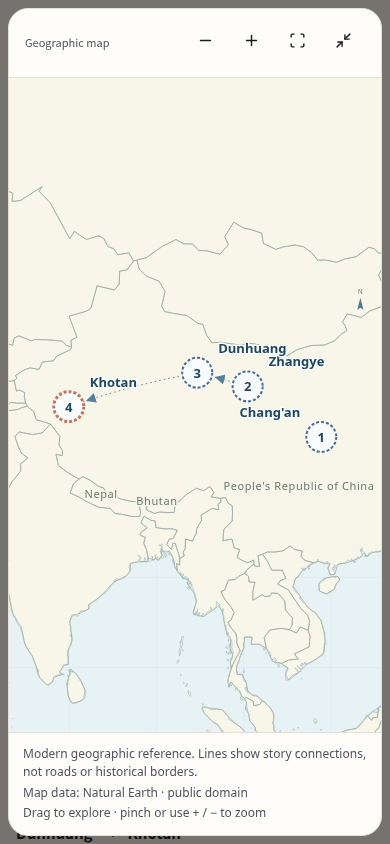
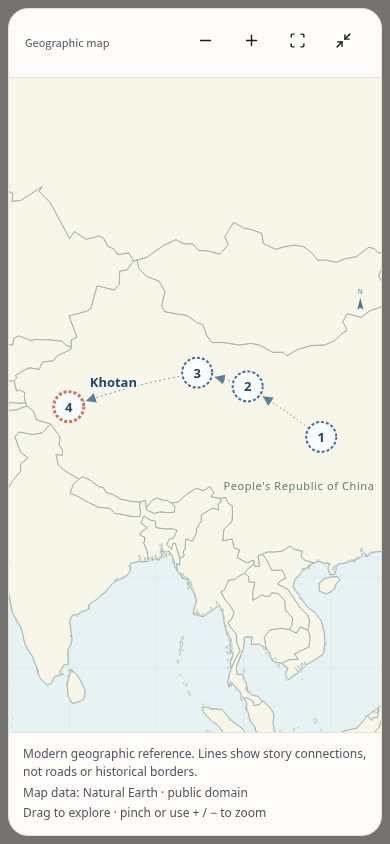
Correct saved historical maps and prepare internal build 38

diff --git a/src/components/guideVisualCopy.ts b/src/components/guideVisualCopy.ts
@@ -1,6 +1,6 @@
 export const guideVisualCopy = {
-  en: { resetLocation: 'Reset location suggestion', mappedPlaces: "Located places", mappedRoutes: "Mapped connections", unmapped: "Not located on this map", noMappedPlaces: "These places have no confirmed geographic match yet. Use the Story map to see their connections, or choose a location below.", historicalApproximation: "Approximate historical location, shown against modern geography. This pin does not identify an exact ancient building, boundary or port.", locationSource: "Location source", graph: 'Graph', tree: 'Tree layout', list: 'Details', all: 'Show all', search: 'Find a person or place', zoomIn: 'Zoom in', zoomOut: 'Zoom out', fit: 'Fit view', expand: 'Expand', close: 'Close', drag: 'Drag to explore · pinch or use + / − to zoom', connections: 'connections', chronological: 'By date', narrative: 'In the text', unknown: 'Without a confirmed date', dateNote: 'Only dates stated in the quoted passages are placed on the calendar.', map: 'Geographic map', story: 'Story map', locate: 'Find a location', noLocation: 'No matching location. Keep fictional or uncertain places on the story map.', candidates: 'Suggested locations · select a place to confirm or change it', confirm: 'Use this location', remove: 'Remove pin', searchPlaces: 'Search city or town', mapNote: 'Modern geographic reference. Lines show story connections, not roads or historical borders.', localPins: 'Location choices are saved on this device.', naturalEarth: 'Map data: Natural Earth · public domain', viewPlace: 'Choose a place', chapters: 'Chapters', overview: 'Book excerpts', partial: 'Partial source coverage', fullNames: 'Select a node or line to see its passages.', dates: 'Dated events', summary: 'Overview', illustration: 'Illustrated map', illustratedNote: 'An illustration of the story; geography and facts come from the linked passages.' },
-  'zh-Hans': { resetLocation: '恢复建议位置', mappedPlaces: "已定位地点", mappedRoutes: "已绘制连线", unmapped: "尚未定位", noMappedPlaces: "这些地点尚无可信的地理位置。可在故事地图中查看它们的关系，或在下方选择位置。", historicalApproximation: "历史地点的大致位置，以现代地理为参考。标记不代表古代建筑、边界或港口的精确位置。", locationSource: "位置依据", graph: '关系图', tree: '树状布局', list: '详情', all: '显示全部', search: '查找人物或地点', zoomIn: '放大', zoomOut: '缩小', fit: '适应视图', expand: '展开', close: '关闭', drag: '拖动查看 · 双指或 + / − 缩放', connections: '条关系', chronological: '按日期', narrative: '原文顺序', unknown: '未确认日期', dateNote: '仅将引文中明确的日期放在时间轴上。', map: '地理地图', story: '故事地图', locate: '查找位置', noLocation: '未找到匹配位置。虚构或不确定的地点可在故事地图中查看。', candidates: '建议位置 · 选择地点以确认或更改', confirm: '使用此位置', remove: '移除标记', searchPlaces: '搜索城市或城镇', mapNote: '现代地理参考。连线表示故事中的联系，不代表道路或历史边界。', localPins: '位置选择保存在此设备上。', naturalEarth: '地图数据：Natural Earth · 公共领域', viewPlace: '选择地点', chapters: '章节', overview: '全书选段', partial: '仅覆盖部分原文', fullNames: '选择节点或连线查看原文依据。', dates: '已注明日期的事件', summary: '概览', illustration: '插画地图', illustratedNote: '故事插画；地理位置和事实请参照所附原文。' },
-  'zh-Hant': { resetLocation: '恢復建議位置', mappedPlaces: "已定位地點", mappedRoutes: "已繪製連線", unmapped: "尚未定位", noMappedPlaces: "這些地點尚無可信的地理位置。可在故事地圖中查看它們的關係，或在下方選擇位置。", historicalApproximation: "歷史地點的大致位置，以現代地理為參考。標記不代表古代建築、邊界或港口的精確位置。", locationSource: "位置依據", graph: '關係圖', tree: '樹狀佈局', list: '詳情', all: '顯示全部', search: '尋找人物或地點', zoomIn: '放大', zoomOut: '縮小', fit: '適應視圖', expand: '展開', close: '關閉', drag: '拖動查看 · 雙指或 + / − 縮放', connections: '條關係', chronological: '按日期', narrative: '原文順序', unknown: '未確認日期', dateNote: '僅將引文中明確的日期放在時間軸上。', map: '地理地圖', story: '故事地圖', locate: '尋找位置', noLocation: '未找到符合的位置。虛構或不確定的地點可在故事地圖中查看。', candidates: '建議位置 · 選擇地點以確認或更改', confirm: '使用此位置', remove: '移除標記', searchPlaces: '搜尋城市或城鎮', mapNote: '現代地理參考。連線表示故事中的聯繫，不代表道路或歷史邊界。', localPins: '位置選擇儲存在此裝置上。', naturalEarth: '地圖資料：Natural Earth · 公共領域', viewPlace: '選擇地點', chapters: '章節', overview: '全書選段', partial: '僅涵蓋部分原文', fullNames: '選擇節點或連線查看原文依據。', dates: '已註明日期的事件', summary: '概覽', illustration: '插畫地圖', illustratedNote: '故事插畫；地理位置和事實請參照所附原文。' },
-  ja: { resetLocation: '位置の候補に戻す', mappedPlaces: "位置が分かる場所", mappedRoutes: "表示中のつながり", unmapped: "位置未確認", noMappedPlaces: "これらの場所は位置がまだ確認できません。物語の地図でつながりを見るか、下で位置を選んでください。", historicalApproximation: "現代の地理上に示した歴史的な場所の概略位置です。古代の建物・境界・港の正確な位置ではありません。", locationSource: "位置の出典", graph: '関係図', tree: 'ツリー', list: '詳細', all: 'すべて表示', search: '人物や場所を探す', zoomIn: '拡大', zoomOut: '縮小', fit: '全体を表示', expand: '広げる', close: '閉じる', drag: 'ドラッグで移動 · ピンチまたは + / − で拡大縮小', connections: '件のつながり', chronological: '日付順', narrative: '本文の順番', unknown: '日付が不明な出来事', dateNote: '引用に明記された日付だけを時間軸に配置します。', map: '地理地図', story: '物語の地図', locate: '位置を探す', noLocation: '一致する場所がありません。架空・不明の場所は物語の地図で確認できます。', candidates: '候補の位置 · 場所を選んで確認・変更できます', confirm: 'この位置を使う', remove: 'ピンを削除', searchPlaces: '都市や町を検索', mapNote: '現代の地理を参考に表示。線は物語のつながりで、道路や歴史的境界ではありません。', localPins: '位置の選択はこの端末に保存されます。', naturalEarth: '地図データ：Natural Earth · パブリックドメイン', viewPlace: '場所を選ぶ', chapters: '章', overview: '本全体からの抜粋', partial: '本文の一部のみ', fullNames: '人物や線を選ぶと根拠の一節が表示されます。', dates: '日付のある出来事', summary: '概要', illustration: 'イラスト地図', illustratedNote: '物語のイラストです。地理や事実は原文で確認してください。' },
+  en: { routeGap: "Route sections with unlocated stops", routeGapNote: "Dotted links summarize existing journey connections through the named unlocated stops. They are not direct journeys or traced paths. Select a connection for its evidence.", regionNote: "Shaded region on a modern map. The square labels the region, not a city, port or exact arrival point.", resetLocation: 'Reset location suggestion', mappedPlaces: "Located places", mappedRoutes: "Mapped connections", unmapped: "Not located on this map", noMappedPlaces: "These places have no confirmed geographic match yet. Use the Story map to see their connections, or choose a location below.", historicalApproximation: "Approximate historical location, shown against modern geography. This pin does not identify an exact ancient building, boundary or port.", locationSource: "Location source", graph: 'Graph', tree: 'Tree layout', list: 'Details', all: 'Show all', search: 'Find a person or place', zoomIn: 'Zoom in', zoomOut: 'Zoom out', fit: 'Fit view', expand: 'Expand', close: 'Close', drag: 'Drag to explore · pinch or use + / − to zoom', connections: 'connections', chronological: 'By date', narrative: 'In the text', unknown: 'Without a confirmed date', dateNote: 'Only dates stated in the quoted passages are placed on the calendar.', map: 'Geographic map', story: 'Story map', locate: 'Find a location', noLocation: 'No matching location. Keep fictional or uncertain places on the story map.', candidates: 'Suggested locations · select a place to confirm or change it', confirm: 'Use this location', remove: 'Remove pin', searchPlaces: 'Search city or town', mapNote: 'Modern geographic reference. Lines show story connections, not roads or historical borders.', localPins: 'Location choices are saved on this device.', naturalEarth: 'Map data: Natural Earth · public domain', viewPlace: 'Choose a place', chapters: 'Chapters', overview: 'Book excerpts', partial: 'Partial source coverage', fullNames: 'Select a node or line to see its passages.', dates: 'Dated events', summary: 'Overview', illustration: 'Illustrated map', illustratedNote: 'An illustration of the story; geography and facts come from the linked passages.' },
+  'zh-Hans': { routeGap: "含未定位途经地的路段", routeGapNote: "点线概括已有行程中经过未定位地点的路段，不表示直达或真实路径。点击下方连线说明查看依据。", regionNote: "阴影表示现代地图上的区域。方形标记是区域标签，不是城市、港口或精确登陆点。", resetLocation: '恢复建议位置', mappedPlaces: "已定位地点", mappedRoutes: "已绘制连线", unmapped: "尚未定位", noMappedPlaces: "这些地点尚无可信的地理位置。可在故事地图中查看它们的关系，或在下方选择位置。", historicalApproximation: "历史地点的大致位置，以现代地理为参考。标记不代表古代建筑、边界或港口的精确位置。", locationSource: "位置依据", graph: '关系图', tree: '树状布局', list: '详情', all: '显示全部', search: '查找人物或地点', zoomIn: '放大', zoomOut: '缩小', fit: '适应视图', expand: '展开', close: '关闭', drag: '拖动查看 · 双指或 + / − 缩放', connections: '条关系', chronological: '按日期', narrative: '原文顺序', unknown: '未确认日期', dateNote: '仅将引文中明确的日期放在时间轴上。', map: '地理地图', story: '故事地图', locate: '查找位置', noLocation: '未找到匹配位置。虚构或不确定的地点可在故事地图中查看。', candidates: '建议位置 · 选择地点以确认或更改', confirm: '使用此位置', remove: '移除标记', searchPlaces: '搜索城市或城镇', mapNote: '现代地理参考。连线表示故事中的联系，不代表道路或历史边界。', localPins: '位置选择保存在此设备上。', naturalEarth: '地图数据：Natural Earth · 公共领域', viewPlace: '选择地点', chapters: '章节', overview: '全书选段', partial: '仅覆盖部分原文', fullNames: '选择节点或连线查看原文依据。', dates: '已注明日期的事件', summary: '概览', illustration: '插画地图', illustratedNote: '故事插画；地理位置和事实请参照所附原文。' },
+  'zh-Hant': { routeGap: "含未定位途經地的路段", routeGapNote: "點線概括已有行程中經過未定位地點的路段，不表示直達或真實路徑。點擊下方連線說明查看依據。", regionNote: "陰影表示現代地圖上的區域。方形標記是區域標籤，不是城市、港口或精確登陸點。", resetLocation: '恢復建議位置', mappedPlaces: "已定位地點", mappedRoutes: "已繪製連線", unmapped: "尚未定位", noMappedPlaces: "這些地點尚無可信的地理位置。可在故事地圖中查看它們的關係，或在下方選擇位置。", historicalApproximation: "歷史地點的大致位置，以現代地理為參考。標記不代表古代建築、邊界或港口的精確位置。", locationSource: "位置依據", graph: '關係圖', tree: '樹狀佈局', list: '詳情', all: '顯示全部', search: '尋找人物或地點', zoomIn: '放大', zoomOut: '縮小', fit: '適應視圖', expand: '展開', close: '關閉', drag: '拖動查看 · 雙指或 + / − 縮放', connections: '條關係', chronological: '按日期', narrative: '原文順序', unknown: '未確認日期', dateNote: '僅將引文中明確的日期放在時間軸上。', map: '地理地圖', story: '故事地圖', locate: '尋找位置', noLocation: '未找到符合的位置。虛構或不確定的地點可在故事地圖中查看。', candidates: '建議位置 · 選擇地點以確認或更改', confirm: '使用此位置', remove: '移除標記', searchPlaces: '搜尋城市或城鎮', mapNote: '現代地理參考。連線表示故事中的聯繫，不代表道路或歷史邊界。', localPins: '位置選擇儲存在此裝置上。', naturalEarth: '地圖資料：Natural Earth · 公共領域', viewPlace: '選擇地點', chapters: '章節', overview: '全書選段', partial: '僅涵蓋部分原文', fullNames: '選擇節點或連線查看原文依據。', dates: '已註明日期的事件', summary: '概覽', illustration: '插畫地圖', illustratedNote: '故事插畫；地理位置和事實請參照所附原文。' },
+  ja: { routeGap: "位置未確認の経由地を含む区間", routeGapNote: "点線は既存の旅程にある経由地をまとめて示します。直行や実際の道筋を示す線ではありません。区間を選ぶと根拠を確認できます。", regionNote: "塗りつぶしは現代地図上の地域です。四角は地域のラベルで、都市・港・正確な到着地点ではありません。", resetLocation: '位置の候補に戻す', mappedPlaces: "位置が分かる場所", mappedRoutes: "表示中のつながり", unmapped: "位置未確認", noMappedPlaces: "これらの場所は位置がまだ確認できません。物語の地図でつながりを見るか、下で位置を選んでください。", historicalApproximation: "現代の地理上に示した歴史的な場所の概略位置です。古代の建物・境界・港の正確な位置ではありません。", locationSource: "位置の出典", graph: '関係図', tree: 'ツリー', list: '詳細', all: 'すべて表示', search: '人物や場所を探す', zoomIn: '拡大', zoomOut: '縮小', fit: '全体を表示', expand: '広げる', close: '閉じる', drag: 'ドラッグで移動 · ピンチまたは + / − で拡大縮小', connections: '件のつながり', chronological: '日付順', narrative: '本文の順番', unknown: '日付が不明な出来事', dateNote: '引用に明記された日付だけを時間軸に配置します。', map: '地理地図', story: '物語の地図', locate: '位置を探す', noLocation: '一致する場所がありません。架空・不明の場所は物語の地図で確認できます。', candidates: '候補の位置 · 場所を選んで確認・変更できます', confirm: 'この位置を使う', remove: 'ピンを削除', searchPlaces: '都市や町を検索', mapNote: '現代の地理を参考に表示。線は物語のつながりで、道路や歴史的境界ではありません。', localPins: '位置の選択はこの端末に保存されます。', naturalEarth: '地図データ：Natural Earth · パブリックドメイン', viewPlace: '場所を選ぶ', chapters: '章', overview: '本全体からの抜粋', partial: '本文の一部のみ', fullNames: '人物や線を選ぶと根拠の一節が表示されます。', dates: '日付のある出来事', summary: '概要', illustration: 'イラスト地図', illustratedNote: '物語のイラストです。地理や事実は原文で確認してください。' },
 }

diff --git a/src/components/GuideMap.tsx b/src/components/GuideMap.tsx
@@ -1,9 +1,10 @@
 import { useId, useState } from 'react'
-import { geoGraticule10, type GeoPermissibleObjects } from 'd3-geo'
+import { geoContains, geoGraticule10, type GeoPermissibleObjects } from 'd3-geo'
 import land from '../data/atlas-land.json'
 import countries from '../data/atlas-countries.json'
 import { atlas, historicalPlaces, readingPlaceChoices, suggestedReadingPlace } from '../lib/guideAtlas'
-import { guideMapGeometry } from '../lib/guideMapGeometry'
+import { guideMapGeometry, mapMarkerPositions } from '../lib/guideMapGeometry'
+import { mapRouteGaps } from '../lib/guideMapRoutes'
 import type { GuideConnection, GuideEntity } from '../lib/bookCompanion'
 import type { UILanguage } from '../i18n'
 import { GuideCanvas } from './GuideCanvas'
@@ -22,10 +23,14 @@ export default function GuideMap({ nodes, edges, guideKey, ui, onSelect, onEdge,
     return place ? [{ node, place, confirmed: chosen }] : []
   })
   const signature = JSON.stringify(pins.map(p => [p.node.id, p.place.id, p.place.longitude, p.place.latitude]))
-  const geometry = guideMapGeometry(pins.map(p => p.place))
+  const geometry = guideMapGeometry(pins.flatMap(p => [p.place, ...(p.place.bounds || []).map(([longitude, latitude]) => ({ longitude, latitude }))]))
   const results = readingPlaceChoices(search || nodes.find(n => n.id === active)?.name || '', bookId)
   const mappedRoutes = edges.filter(edge => pins.some(p => p.node.id === edge.from) && pins.some(p => p.node.id === edge.to)).length
   const missing = nodes.filter(node => !pins.some(p => p.node.id === node.id))
+  const labeledCountries = countries.features.filter(country => pins.some(pin => pin.place.country === country.properties.NAME_EN || geoContains(country as GeoPermissibleObjects, [pin.place.longitude, pin.place.latitude])))
+  const gaps = mapRouteGaps(edges, new Set(pins.map(p => p.node.id)))
+  const [selectedGap, setSelectedGap] = useState<number | null>(null)
+  const gapLabel = (gap: typeof gaps[number]) => [gap.from, ...gap.via, gap.to].map(id => nodes.find(n => n.id === id)?.name || id).join(' → ')
   const save = (id: string | null | undefined) => {
     const next = { ...choices }
     if (id === undefined) delete next[active]
@@ -42,18 +47,25 @@ export default function GuideMap({ nodes, edges, guideKey, ui, onSelect, onEdge,
     <div className="atlas-coverage" role="status"><strong>{t.mappedPlaces}: {pins.length}/{nodes.length}</strong><span>{t.mappedRoutes}: {mappedRoutes}/{edges.length}</span></div>
     {!!missing.length && <p className="atlas-unresolved">{t.unmapped}: {missing.map(p => p.name).join(' · ')}</p>}
     {pins.length > 0 ? <GuideCanvas key={signature} stateKey={`${guideKey}:map-v2:${signature}`} width={720} height={460} label={t.map} ui={ui} footer={<><p>{t.mapNote}</p><p>{t.naturalEarth}</p></>}>
-      {scale => <>
+      {scale => { const markerPositions = mapMarkerPositions(pins.map(p => geometry.projection([p.place.longitude, p.place.latitude])!), scale); return <>
       <defs><marker id={arrow} viewBox="0 0 10 10" refX="28" refY="5" markerUnits="userSpaceOnUse" markerWidth={10 / scale} markerHeight={10 / scale} orient="auto-start-reverse"><path d="M0 0L10 5L0 10Z" className="atlas-arrow" /></marker></defs>
       <rect x="-20000" y="-20000" width="40000" height="40000" className="atlas-ocean" />
       <path d={geometry.path(geoGraticule10()) || ''} className="atlas-grid" />
       <path d={geometry.path(land as GeoPermissibleObjects) || ''} className="atlas-land" />
       <path d={geometry.path(countries as GeoPermissibleObjects) || ''} className="atlas-borders" />
-      {countries.features.map((country, i) => {
+      {pins.filter(p => p.place.area).map(pin => <path key={pin.node.id} d={geometry.path(pin.place.area!) || ''} className="atlas-region" />)}
+      {labeledCountries.map((country, i) => {
         const p = country.properties, point = geometry.projection([p.LABEL_X, p.LABEL_Y])
         if (!point || point[0] < 40 || point[0] > 680 || point[1] < 35 || point[1] > 425) return null
         const label = ui === 'ja' ? p.NAME_JA : ui.startsWith('zh') ? p.NAME_ZH : p.NAME_EN
         const close = pins.some(pin => { const q = geometry.projection([pin.place.longitude, pin.place.latitude])!; return Math.abs(q[0] - point[0]) * scale < 55 && Math.abs(q[1] - point[1]) * scale < 30 })
         return <text key={i} transform={`translate(${point[0]},${point[1]}) scale(${1 / scale})`} y={close ? 34 : 0} className="atlas-country" textAnchor="middle">{label}</text>
+      })}
+      {gaps.map((gap, i) => {
+        const a = pins.find(p => p.node.id === gap.from)!, b = pins.find(p => p.node.id === gap.to)!
+        const d = geometry.path({ type: 'LineString', coordinates: [[a.place.longitude, a.place.latitude], [b.place.longitude, b.place.latitude]] }) || ''
+        const label = `${t.routeGap}: ${gapLabel(gap)}`
+        return <g key={`gap-${i}`} role="button" tabIndex={0} aria-label={label} className={`atlas-gap-control atlas-route-control${selectedGap === i ? ' selected' : ''}`} onClick={() => setSelectedGap(i)} onKeyDown={e => { if (e.key === 'Enter' || e.key === ' ') { e.preventDefault(); setSelectedGap(i) } }}><title>{label}</title><path d={d} className="atlas-route-hit" /><path d={d} className="atlas-route atlas-route-gap" markerEnd={`url(#${arrow})`} /></g>
       })}
       {edges.map((edge, i) => {
         const a = pins.find(p => p.node.id === edge.from), b = pins.find(p => p.node.id === edge.to)
@@ -67,21 +79,23 @@ export default function GuideMap({ nodes, edges, guideKey, ui, onSelect, onEdge,
       {pins.map((pin, i) => {
         const point = geometry.projection([pin.place.longitude, pin.place.latitude])
         if (!point) return null
+        const marker = markerPositions[i]
         const choose = () => { setActive(pin.node.id); setSearch(''); onSelect(pin.node.id) }
-        return <g key={pin.node.id} transform={`translate(${point[0]},${point[1]}) scale(${1 / scale})`} className={`atlas-pin${pin.place.approximate ? ' approximate' : ''}${pin.confirmed ? ' confirmed' : ''}${active === pin.node.id ? ' selected' : ''}`} role="button" tabIndex={0} aria-label={`${pin.node.name} · ${pin.place.name}, ${pin.place.country}`} onClick={choose} onKeyDown={e => { if (e.key === 'Enter' || e.key === ' ') { e.preventDefault(); choose() } }}>
-          <title>{pin.node.name} · {pin.place.name}, {pin.place.country}</title><circle r="15" /><text y="5" textAnchor="middle">{i + 1}</text>
-          {(active === pin.node.id || pins.length <= 6) && <text className="atlas-place-label" x={point[0] > 480 ? -21 : 21} y="-20" textAnchor={point[0] > 480 ? 'end' : 'start'}>{labelLines(pin.node.name, 20).map((line, i) => <tspan key={i} x={point[0] > 480 ? -21 : 21} dy={i ? 16 : 0}>{line}</tspan>)}</text>}
-        </g>
+        return <g key={pin.node.id}><path className="atlas-marker-leader" d={`M${point[0]},${point[1]}L${marker[0]},${marker[1]}`} /><g transform={`translate(${marker[0]},${marker[1]}) scale(${1 / scale})`} className={`atlas-pin${pin.place.approximate ? ' approximate' : ''}${pin.confirmed ? ' confirmed' : ''}${active === pin.node.id ? ' selected' : ''}`} role="button" tabIndex={0} aria-label={`${pin.node.name} · ${pin.place.name}, ${pin.place.country}`} onClick={choose} onKeyDown={e => { if (e.key === 'Enter' || e.key === ' ') { e.preventDefault(); choose() } }}>
+          <title>{pin.node.name} · {pin.place.name}, {pin.place.country}</title>{pin.place.area ? <rect x="-15" y="-15" width="30" height="30" rx="5" /> : <circle r="15" />}<text y="5" textAnchor="middle">{i + 1}</text>
+          {active === pin.node.id && <text className="atlas-place-label" x={point[0] > 480 ? -21 : 21} y="-20" textAnchor={point[0] > 480 ? 'end' : 'start'}>{labelLines(pin.node.name, 10).map((line, i) => <tspan key={i} x={point[0] > 480 ? -21 : 21} dy={i ? 16 : 0}>{line}</tspan>)}</text>}
+        </g></g>
       })}
       <g className="atlas-compass" transform="translate(680,40)"><path d="M0 -17L-6 6L0 2L6 6Z" /><text y="-24" textAnchor="middle">N</text></g>
-      </>}
+      </> }}
     </GuideCanvas> : <p className="guide-empty atlas-empty">{t.noMappedPlaces}</p>}
+    {!!gaps.length && <details className="atlas-route-gaps" open={selectedGap !== null}><summary>{t.routeGap} · {gaps.length}</summary><p className="guide-caption">{t.routeGapNote}</p>{gaps.map((gap, i) => <div key={i} className={selectedGap === i ? 'selected' : ''}><strong>{gapLabel(gap)}</strong><div>{gap.edges.map(index => <button type="button" key={index} onClick={() => onEdge(index)}>{edges[index].label}</button>)}</div></div>)}</details>}
     <p className="guide-caption">{t.candidates}</p>
     <div className="guide-name-index">{nodes.map(node => <button type="button" key={node.id} aria-pressed={active === node.id} onClick={() => { setActive(node.id); setSearch(''); onSelect(node.id) }}>{pins.some(p => p.node.id === node.id) && <span className="atlas-index-number">{pins.findIndex(p => p.node.id === node.id) + 1}</span>}<bdi>{node.name}</bdi></button>)}</div>
     {active && <details className="guide-locate" key={active} open={!selectedPin}>
       <summary>{t.locate} · <bdi>{nodes.find(n => n.id === active)?.name}</bdi></summary>
       {selectedPin && <><p>{selectedPin.place.name} · {selectedPin.place.region} · {selectedPin.place.country}</p>
-        {selectedPin.place.approximate && <p className="guide-caption">{t.historicalApproximation}</p>}
+        {selectedPin.place.approximate && <p className="guide-caption">{selectedPin.place.area ? t.regionNote : t.historicalApproximation}</p>}
         {!!selectedPin.place.sources?.length && <div className="atlas-sources">{selectedPin.place.sources.map((url, i) => <a key={url} href={url} target="_blank" rel="noreferrer">{t.locationSource} {i + 1}</a>)}</div>}</>}
       <input className="guide-search" value={search} onChange={e => setSearch(e.target.value)} placeholder={t.searchPlaces} aria-label={t.searchPlaces} />
       <div className="guide-location-results">{results.map(place => <button type="button" key={place.id} aria-label={`${t.confirm}: ${place.name}, ${place.country}`} onClick={() => save(place.id)}><strong>{place.name}</strong><span>{place.region} · {place.country}</span></button>)}</div>

diff --git a/src/lib/guideAtlas.ts b/src/lib/guideAtlas.ts
@@ -1,7 +1,9 @@
 import cities from '../data/atlas-places.json'
 import historical from '../../server/agent/reading-locations.json'
+import countries from '../data/atlas-countries.json'
+import { geoBounds, type GeoPermissibleObjects } from 'd3-geo'
 
-export interface AtlasPlace { id: string; name: string; country: string; region: string; longitude: number; latitude: number; names: string[]; approximate?: boolean; sources?: string[]; atlasId?: string }
+export interface AtlasPlace { id: string; name: string; country: string; region: string; longitude: number; latitude: number; names: string[]; approximate?: boolean; sources?: string[]; atlasId?: string; area?: GeoPermissibleObjects; bounds?: number[][] }
 const normalize = (value: string) => value.normalize('NFKD').replace(/\p{M}/gu, '').toLocaleLowerCase().replace(/[’'‘ʽʼ\s-]/gu, '').trim()
 export const atlas: AtlasPlace[] = (cities as [string, string, string, string, number, number, string[]][]).map(([id, name, country, region, longitude, latitude, names]) => ({ id, name, country, region, longitude, latitude, names }))
 const atlasById = new Map(atlas.map(place => [place.id, place]))
@@ -20,10 +22,16 @@ export function suggestedPlace(names: string[]): AtlasPlace | null {
   return results.length === 1 ? results[0] : null
 }
 
-type HistoricalRow = { id: string; name: string; names: string[]; sources: string[]; atlasId?: string; country?: string; region?: string; longitude?: number; latitude?: number }
+type HistoricalRow = { id: string; name: string; names: string[]; sources: string[]; atlasId?: string; country?: string; region?: string; longitude?: number; latitude?: number; countryArea?: string }
 const books = historical.books as Record<string, { locations: HistoricalRow[]; unresolvedNames: string[] }>
 export function historicalPlaces(bookId: string): AtlasPlace[] {
-  return (books[bookId]?.locations || []).flatMap(row => {
+  return (books[bookId]?.locations || []).flatMap<AtlasPlace>(row => {
+    if (row.countryArea) {
+      const feature = countries.features.find(f => f.properties.NAME_EN === row.countryArea)
+      if (!feature) return []
+      const area = feature as GeoPermissibleObjects
+      return [{ id: `historical-${bookId}-${row.id}`, name: row.name, country: row.countryArea, region: '', longitude: feature.properties.LABEL_X, latitude: feature.properties.LABEL_Y, names: row.names, approximate: true, sources: row.sources, area, bounds: geoBounds(area) }]
+    }
     const modern = row.atlasId ? atlasById.get(row.atlasId) : undefined
     if (row.atlasId && !modern) return []
     return [{ ...modern, id: `historical-${bookId}-${row.id}`, name: row.name, country: modern?.country || row.country!, region: modern?.region || row.region!,
@@ -34,11 +42,16 @@ export function historicalPlaces(bookId: string): AtlasPlace[] {
 // Exact names only. Book-scoped historical names must not silently become a
 // namesake town, a country's capital, or an invented coordinate from the model.
 export function suggestedReadingPlace(names: string[], bookId: string): AtlasPlace | null {
+  // Parenthesized historical/modern names are aliases, not a fuzzy substring match.
+  const variants = (name: string) => { const text = name.normalize('NFKC'); return [text, ...text.split(/[()]/u).filter(Boolean)].map(normalize) }
   const blocked = new Set((books[bookId]?.unresolvedNames || []).map(normalize))
-  if (blocked.has(normalize(names[0] || ''))) return null
   const historic = historicalPlaces(bookId)
+  const primary = variants(names[0] || '')
+  const regions = historic.filter(p => p.area && p.names.some(n => primary.includes(normalize(n))))
+  if (regions.length === 1) return regions[0]
+  if (primary.some(n => blocked.has(n))) return null
   const candidates = names.flatMap(name => {
-    const known = historic.filter(p => p.names.some(n => normalize(n) === normalize(name)))
+    const known = historic.filter(p => p.names.some(n => variants(name).includes(normalize(n))))
     return known.length ? known : findPlaces(name, true)
   })
   const unique = new Map<string, AtlasPlace>()

diff --git a/src/lib/guideAtlas.test.ts b/src/lib/guideAtlas.test.ts
@@ -1,6 +1,6 @@
 import { expect, it } from 'vitest'
 import { historicalPlaces, readingPlaceChoices, suggestedReadingPlace } from './guideAtlas'
-import { guideMapGeometry } from './guideMapGeometry'
+import { guideMapGeometry, mapMarkerPositions } from './guideMapGeometry'
 
 it('locates historical Foguoji names without inferring a route or borrowing another book context', () => {
   const names = ['長安', '張掖', '燉煌', '于闐', '弗樓沙', '巴連弗邑', '多摩梨帝']
@@ -16,7 +16,7 @@ it('locates historical Foguoji names without inferring a route or borrowing anot
 })
 
 it('does not turn disputed places, regions, islands or kingdoms into exact city pins', () => {
-  for (const names of [['師子國', 'Colombo'], ['Java-dvîpa', 'Jakarta'], ['中國', 'Beijing'], ['竭叉'], ['迦維羅衛'], ['竺剎尸羅', 'Taxila']]) {
+  for (const names of [['Java-dvîpa', 'Jakarta'], ['中國', 'Beijing'], ['竭叉'], ['迦維羅衛'], ['竺剎尸羅', 'Taxila'], ['中天竺（印度）', 'Beijing']]) {
     expect(suggestedReadingPlace(names, 'foguoji')).toBeNull()
   }
   expect(suggestedReadingPlace(['Kingdom of Invisible Clouds'], 'foguoji')).toBeNull()
@@ -26,12 +26,23 @@ it('does not turn disputed places, regions, islands or kingdoms into exact city 
 
 it('keeps reviewed historical coordinates finite and provenance available offline', () => {
   const places = historicalPlaces('foguoji')
-  expect(new Set(places.map(p => p.id)).size).toBe(17)
+  expect(new Set(places.map(p => p.id)).size).toBe(19)
   for (const p of places) {
     expect(Math.abs(p.longitude)).toBeLessThanOrEqual(180)
     expect(Math.abs(p.latitude)).toBeLessThan(85)
     expect(p.sources?.every(s => s.startsWith('https://'))).toBe(true)
   }
+})
+
+it('resolves parenthesized historical names and represents an island as an area, never its capital', () => {
+  expect(suggestedReadingPlace(['多摩梨帝（耽摩栗底）', '耽摩栗底'], 'foguoji')?.longitude).toBe(87.92)
+  expect(suggestedReadingPlace(['巴连弗邑（华氏城）'], 'foguoji')?.country).toBe('India')
+  expect(suggestedReadingPlace(['巴连弗邑（建康）'], 'foguoji')).toBeNull()
+  expect(suggestedReadingPlace(['玉门关'], 'foguoji')?.longitude).toBeCloseTo(93.864, 2)
+  const region = suggestedReadingPlace(['师子国（斯里兰卡）', 'Colombo'], 'foguoji')!
+  expect(region.area).toBeDefined(); expect(region.bounds).toHaveLength(2)
+  expect(region.name).not.toContain('Colombo')
+  expect(suggestedReadingPlace(['师子国'], 'another-book')).toBeNull()
 })
 
 it('fits every actual stop despite clusters, outliers, or crossing the date line', () => {
@@ -51,4 +62,13 @@ it('fits every actual stop despite clusters, outliers, or crossing the date line
   }
   const west=guideMapGeometry(routes[0]).projection([85,25]), east=guideMapGeometry(routes[1]).projection([85,25])
   expect(west).not.toEqual(east)
+})
+
+it('separates coincident and nearby touch targets at phone and desktop zoom levels', () => {
+  const points: [number, number][] = [[200,200],[200,200],[203,205],[205,202],[202,208]]
+  for (const scale of [.3,1,2]) {
+    const markers = mapMarkerPositions(points,scale)
+    markers.forEach((p,i) => markers.slice(i+1).forEach(q => expect(Math.hypot(p[0]-q[0],p[1]-q[1])*scale).toBeGreaterThanOrEqual(35)))
+  }
+  expect(points[1]).toEqual([200,200])
 })

diff --git a/src/lib/guideMapRoutes.test.ts b/src/lib/guideMapRoutes.test.ts
@@ -1,0 +1,17 @@
+import { expect, it } from 'vitest'
+import { mapRouteGaps } from './guideMapRoutes'
+import type { GuideConnection } from './bookCompanion'
+const edge = (from: string, to: string, direction: 'forward' | 'mutual' = 'forward'): GuideConnection => ({ from, to, direction, label: `${from} to ${to}`, certainty: 'background', citations: [] })
+it('bridges only explicit directed journeys and retains every missing stop and source edge', () => {
+  const edges = [edge('a', 'x'), edge('x', 'y'), edge('y', 'b'), edge('b', 'c'), edge('x', 'z'), edge('z', 'd')]
+  expect(mapRouteGaps(edges, new Set(['a', 'b', 'c', 'd']))).toEqual([
+    { from: 'a', to: 'b', via: ['x', 'y'], edges: [0, 1, 2] },
+    { from: 'a', to: 'd', via: ['x', 'z'], edges: [0, 4, 5] },
+  ])
+  expect(mapRouteGaps(edges, new Set(['b', 'c']))).toEqual([])
+})
+it('does not join unrelated nodes, reverse symmetric relations, or loop forever', () => {
+  expect(mapRouteGaps([edge('a','x'), edge('x','a'), edge('x','y'), edge('y','x'), edge('y','b','mutual')], new Set(['a','b']))).toEqual([])
+  const dense = Array.from({length: 24},(_,i)=>edge(`n${i}`,`n${(i+1)%24}`))
+  expect(mapRouteGaps(dense,new Set(['n0']))).toEqual([])
+})

diff --git a/src/components/guideVisuals.css b/src/components/guideVisuals.css
@@ -83,3 +83,15 @@
 
 [data-theme=night] .atlas-index-number { background: #294854; color: #e0edf0; }
 [data-theme=night] .atlas-arrow { fill: #9dc0d6; }
+
+.atlas-region { fill: #ddae73; fill-opacity: .5; stroke: #b17a45; stroke-width: 1.5; vector-effect: non-scaling-stroke; }
+.atlas-pin rect { fill: #fbf0dc; stroke: #9a713a; stroke-width: 2; stroke-dasharray: 3 2; }
+.atlas-pin.selected rect,.atlas-pin:focus-visible rect { stroke: #c27760; stroke-width: 3; }
+.atlas-route.atlas-route-gap { stroke: #9a713a; stroke-dasharray: 1 7; stroke-linecap: round; }
+.atlas-route-gaps { margin: .7rem 0; font-size: .85rem; overflow-wrap: anywhere; }
+.atlas-route-gaps > div { padding: .6rem; margin: .4rem 0; border-left: 2px solid var(--line); }
+.atlas-route-gaps > div.selected { border-color: #b17a45; }
+.atlas-route-gaps button { font-size: inherit; margin: .25rem .4rem 0 0; padding: .3rem .5rem; }
+[data-theme=night] .atlas-region { fill: #b88c54; stroke: #d5b17e; }
+.atlas-marker-leader { fill: none; stroke: #607989; stroke-width: 1; vector-effect: non-scaling-stroke; pointer-events: none; }
+.atlas-place-label { pointer-events: none; }

diff --git a/src/lib/guideMapRoutes.ts b/src/lib/guideMapRoutes.ts
@@ -1,0 +1,23 @@
+import type { GuideConnection } from './bookCompanion'
+
+/** Follow explicit directed edges across unlocated stops. Never infer list order,
+ * reverse a journey, or invent positions for intermediate places. */
+export function mapRouteGaps(edges: GuideConnection[], located: Set<string>) {
+  const result: { from: string; to: string; via: string[]; edges: number[] }[] = []
+  let remaining = 512
+  const walk = (from: string, at: string, via: string[], path: number[], seen: Set<string>) => {
+    if (--remaining < 0 || seen.has(at)) return
+    if (located.has(at)) {
+      if (via.length) result.push({ from, to: at, via, edges: path })
+      return
+    }
+    const next = new Set([...seen, at])
+    edges.forEach((edge, index) => {
+      if (edge.direction === 'forward' && edge.from === at) walk(from, edge.to, [...via, at], [...path, index], next)
+    })
+  }
+  edges.forEach((edge, index) => {
+    if (edge.direction === 'forward' && located.has(edge.from) && !located.has(edge.to)) walk(edge.from, edge.to, [], [index], new Set([edge.from]))
+  })
+  return result
+}

diff --git a/src/lib/guideMapGeometry.ts b/src/lib/guideMapGeometry.ts
@@ -1,5 +1,20 @@
 import { geoMercator, geoPath } from 'd3-geo'
 
+/** Keep touch targets distinct; leader lines retain the actual geographic point. */
+export function mapMarkerPositions(points: [number, number][], scale: number) {
+  const placed: [number, number][] = []
+  for (const point of points) {
+    let chosen = point
+    search: for (let ring = 0; ring <= 8; ring++) for (let step = 0; step < (ring ? 12 : 1); step++) {
+      const angle = step * Math.PI / 6
+      const candidate: [number, number] = [point[0] + Math.cos(angle) * ring * 36 / scale, point[1] + Math.sin(angle) * ring * 36 / scale]
+      if (placed.every(p => Math.hypot(p[0] - candidate[0], p[1] - candidate[1]) * scale >= 35)) { chosen = candidate; break search }
+    }
+    placed.push(chosen)
+  }
+  return placed
+}
+
 /** Fit the actual projected bounds, not the arithmetic mean of clustered pins. */
 export function guideMapGeometry(locations: { longitude: number; latitude: number }[]) {
   const lons = locations.map(p => (p.longitude + 360) % 360).sort((a, b) => a - b)

diff --git a/docs/historical-reading-maps.md b/docs/historical-reading-maps.md
@@ -17,6 +17,13 @@ disputed locations remain listed and available in the story graph. It does not
 substitute a modern capital for an ancient kingdom or island. Readers can make
 an explicit location choice, remove it, or reset it to the current suggestion.
 
+Parenthesized names such as 巴连弗邑（华氏城） are matched as aliases.
+Sri Lanka is shaded as a region, with a square region label rather than a city pin.
+Dotted links can summarize explicit journey connections across unlocated stops;
+their named intermediate stops and original connection evidence remain available.
+They never imply a direct journey or guessed intermediate coordinates. Nearby
+markers are separated for touch selection, with leader lines to their map positions.
+
 ## Geographic sources
 
 - [Faxian, translated and annotated by James Legge (1886)](https://www.gutenberg.org/cache/epub/64535/pg64535-images.html): historical names and identifications. Legge explicitly disputes identifying Faxian's Takshasila with the archaeological Taxila site; this remains unpinned, alongside Kapilavastu, Jiesha and Java-dvipa.
@@ -24,6 +31,7 @@ an explicit location choice, remove it, or reset it to the current suggestion.
 - [UNESCO: Mahabodhi Temple](https://whc.unesco.org/en/list/1056/) and [Lumbini](https://whc.unesco.org/en/list/666/): reference coordinates for those named sites.
 - [Purba Medinipur district history](https://purbamedinipur.gov.in/history/) and [Tamluk geographic reference](https://en.wikipedia.org/wiki/Tamluk): Tamralipti's approximate modern location. The map does not identify an ancient shoreline or dock.
 - [Nalanda district: Rajgir](https://nalanda.nic.in/en/tourist-place/cyclopean-wall/) and [geolocated Cyclopean Wall photograph](https://commons.wikimedia.org/wiki/File:Cyclopean_Wall_of_Rajgir.jpg): approximate Rajgir-area reference.
+- [UNESCO: Site of Yumen Pass](https://whc.unesco.org/en/list/1442/maps): coordinates for the historical pass, distinct from modern Yumen city.
 - Natural Earth public-domain land, populated-place coordinates, and modern country outlines. Exact source revision and checksums are in [the atlas manifest](reading-atlas-provenance.json); `tools/build-reading-atlas.py` reproduces the data.
 
 The gazetteer supplies name identifications, not evidence that a journey occurred.
@@ -52,3 +60,12 @@ in generated prose.
 record the evidence and limitations. The renderer has not been uploaded in a new
 native binary or deployed to the public PWA. Current store releases and reviews
 are unchanged.
+
+### Internal build 38 preparation
+
+The account-scoped reproduction confirmed that saved responses already contained
+places and routes. Name matching and map coverage caused the missing display;
+the saved conversation was preserved. The backend prompt now avoids claiming
+that it can inspect a client screen or that existing visual data was omitted.
+The follow-up backend passed an isolated live model request and both public
+health probes. Native build 38 is being prepared for internal testing only.
